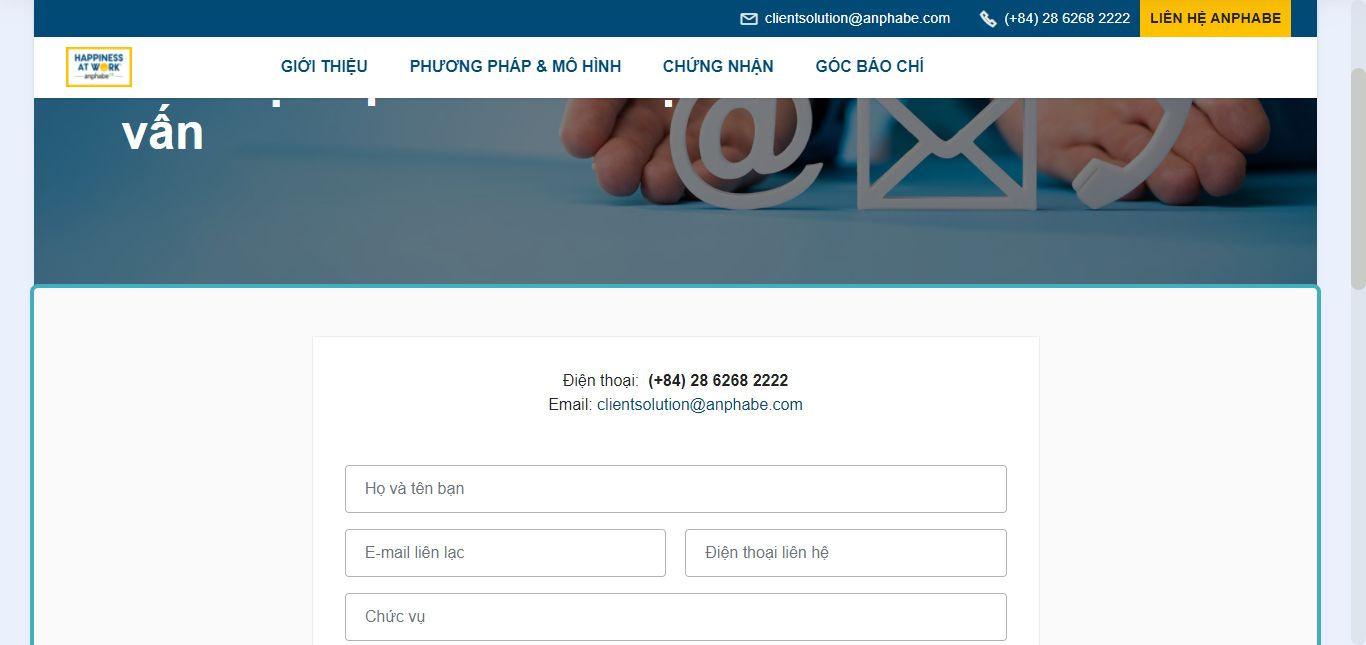
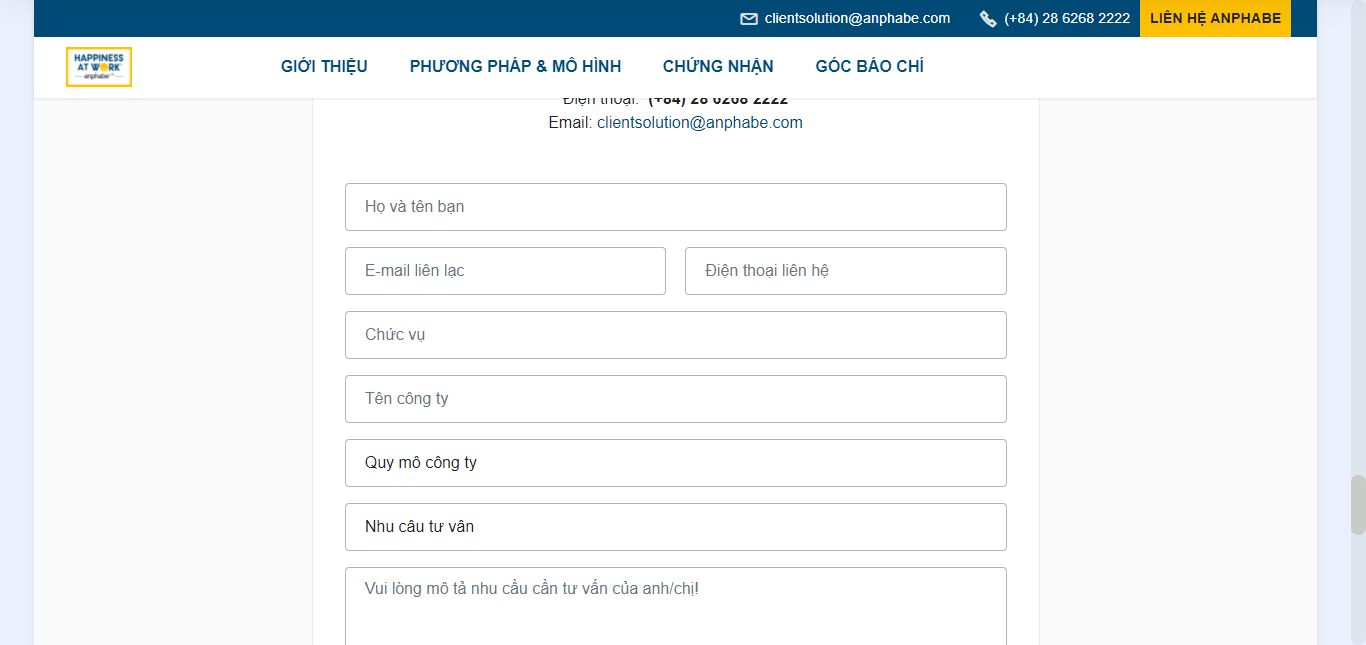
update form mautic

diff --git a/phuong-phap.html b/phuong-phap.html
@@ -487,10 +487,10 @@ if (
                         <strong>Câu hỏi thường gặp</strong></h3>
                     
                 </div>
-                <div id="bootstrap-accordion_22" class="panel-group accordionStyles accordion" role="tablist" aria-multiselectable="true">
+                <div id="bootstrap-accordion_8" class="panel-group accordionStyles accordion" role="tablist" aria-multiselectable="true">
                     <div class="card">
                         <div class="card-header" role="tab" id="headingOne">
-                            <a role="button" class="panel-title collapsed" data-toggle="collapse" data-bs-toggle="collapse" data-core="" href="#collapse1_22" aria-expanded="false" aria-controls="collapse1">
+                            <a role="button" class="panel-title collapsed" data-toggle="collapse" data-bs-toggle="collapse" data-core="" href="#collapse1_8" aria-expanded="false" aria-controls="collapse1">
                                 <div class="panel-wrap">
                                     <p class="panel-number mbr-fonts-style display-4">
                                         01</p>
@@ -499,7 +499,7 @@ if (
                                 <div class="icon-wrapper"><span class="sign mbr-iconfont mobi-mbri-plus mobi-mbri mbri-arrow-down"></span></div>
                             </a>
                         </div>
-                        <div id="collapse1_22" class="panel-collapse noScroll collapse" role="tabpanel" aria-labelledby="headingOne" data-parent="#accordion" data-bs-parent="#bootstrap-accordion_22">
+                        <div id="collapse1_8" class="panel-collapse noScroll collapse" role="tabpanel" aria-labelledby="headingOne" data-parent="#accordion" data-bs-parent="#bootstrap-accordion_8">
                             <div class="panel-body">
                                 <div class="panel-padding"></div>
                                 <p class="mbr-fonts-style panel-text display-4">Chứng nhận Nguồn Nhân Lực Hạnh Phúc là minh chứng thể hiện sự ghi nhận về mức độ hài lòng và hạnh phúc của nhân viên nội bộ dành cho doanh nghiệp đang làm việc và sự quan tâm và nỗ lực của doanh nghiệp đó trong việc chăm lo cho môi trường làm việc và đời sống người lao động. Thông qua các mô hình đánh giá chuyên nghiệp và dựa trên kết quả khảo sát toàn diện từ nhân viên tới lãnh đạo doanh nghiệp, khi các minh chứng thực tế và dữ liệu khảo sát đáp ứng được mức chuẩn của chương trình, doanh nghiệp sẽ được Ban Tổ Chức trao Chứng nhận là <strong>Doanh nghiệp tiêu biểu có Nguồn Nhân Lực Hạnh Phúc</strong>.</p>
@@ -509,7 +509,7 @@ if (
                     
                     <div class="card">
                         <div class="card-header" role="tab" id="headingTwo">
-                            <a role="button" class="panel-title collapsed" data-toggle="collapse" data-bs-toggle="collapse" data-core="" href="#collapse2_22" aria-expanded="false" aria-controls="collapse2">
+                            <a role="button" class="panel-title collapsed" data-toggle="collapse" data-bs-toggle="collapse" data-core="" href="#collapse2_8" aria-expanded="false" aria-controls="collapse2">
                                 <div class="panel-wrap">
                                     <p class="panel-number mbr-fonts-style display-4">
                                         02</p>
@@ -518,7 +518,7 @@ if (
                                 <div class="icon-wrapper"><span class="sign mbr-iconfont mobi-mbri-plus mobi-mbri mbri-arrow-down"></span></div>
                             </a>
                         </div>
-                        <div id="collapse2_22" class="panel-collapse noScroll collapse" role="tabpanel" aria-labelledby="headingTwo" data-parent="#accordion" data-bs-parent="#bootstrap-accordion_22">
+                        <div id="collapse2_8" class="panel-collapse noScroll collapse" role="tabpanel" aria-labelledby="headingTwo" data-parent="#accordion" data-bs-parent="#bootstrap-accordion_8">
                             <div class="panel-body">
                                 <div class="panel-padding"></div>
                                 <p class="mbr-fonts-style panel-text display-4">Công ty cần đăng ký trước ngày <strong>31/05/2024</strong> cho đợt 1, và trước <strong>31/11/2024</strong> cho đợt 2.</p>
@@ -528,7 +528,7 @@ if (
 
                     <div class="card">
                         <div class="card-header" role="tab" id="headingThree">
-                            <a role="button" class="panel-title collapsed" data-toggle="collapse" data-bs-toggle="collapse" data-core="" href="#collapse3_22" aria-expanded="false" aria-controls="collapse3">
+                            <a role="button" class="panel-title collapsed" data-toggle="collapse" data-bs-toggle="collapse" data-core="" href="#collapse3_8" aria-expanded="false" aria-controls="collapse3">
                                 <div class="panel-wrap">
                                     <p class="panel-number mbr-fonts-style display-4">
                                         03</p>
@@ -537,7 +537,7 @@ if (
                                 <div class="icon-wrapper"><span class="sign mbr-iconfont mobi-mbri-plus mobi-mbri mbri-arrow-down"></span></div>
                             </a>
                         </div>
-                        <div id="collapse3_22" class="panel-collapse noScroll collapse" role="tabpanel" aria-labelledby="headingThree" data-parent="#accordion" data-bs-parent="#bootstrap-accordion_22">
+                        <div id="collapse3_8" class="panel-collapse noScroll collapse" role="tabpanel" aria-labelledby="headingThree" data-parent="#accordion" data-bs-parent="#bootstrap-accordion_8">
                             <div class="panel-body">
                                 <div class="panel-padding"></div>
                                 <ul class="list mbr-fonts-style panel-text display-4">
@@ -549,7 +549,7 @@ if (
                     </div>
                     <div class="card">
                         <div class="card-header" role="tab" id="headingFour">
-                            <a role="button" class="panel-title collapsed" data-toggle="collapse" data-bs-toggle="collapse" data-core="" href="#collapse4_22" aria-expanded="false" aria-controls="collapse4">
+                            <a role="button" class="panel-title collapsed" data-toggle="collapse" data-bs-toggle="collapse" data-core="" href="#collapse4_8" aria-expanded="false" aria-controls="collapse4">
                                 <div class="panel-wrap">
                                     <p class="panel-number mbr-fonts-style display-4">
                                         04</p>
@@ -558,7 +558,7 @@ if (
                                 <div class="icon-wrapper"><span class="sign mbr-iconfont mobi-mbri-plus mobi-mbri mbri-arrow-down"></span></div>
                             </a>
                         </div>
-                        <div id="collapse4_22" class="panel-collapse noScroll collapse" role="tabpanel" aria-labelledby="headingFour" data-parent="#accordion" data-bs-parent="#bootstrap-accordion_22">
+                        <div id="collapse4_8" class="panel-collapse noScroll collapse" role="tabpanel" aria-labelledby="headingFour" data-parent="#accordion" data-bs-parent="#bootstrap-accordion_8">
                             <div class="panel-body">
                                 <div class="panel-padding"></div>
                                 <p class="mbr-fonts-style panel-text display-4">Tiếng Việt là mặc định trong tất cả nội dung Bảng câu hỏi khảo sát, Báo cáo kết quả và Bộ công cụ truyền thông vinh danh tiêu chuẩn. Khi có yêu cầu về tiếng Anh, vui lòng liên hệ Anphabe để được tư vấn thêm.</p>
@@ -567,7 +567,7 @@ if (
                     </div>
                     <div class="card">
                         <div class="card-header" role="tab" id="headingFive">
-                            <a role="button" class="panel-title collapsed" data-toggle="collapse" data-bs-toggle="collapse" data-core="" href="#collapse5_22" aria-expanded="false" aria-controls="collapse5">
+                            <a role="button" class="panel-title collapsed" data-toggle="collapse" data-bs-toggle="collapse" data-core="" href="#collapse5_8" aria-expanded="false" aria-controls="collapse5">
                                 <div class="panel-wrap">
                                     <p class="panel-number mbr-fonts-style display-4">
                                         05</p>
@@ -576,7 +576,7 @@ if (
                                 <div class="icon-wrapper"><span class="sign mbr-iconfont mobi-mbri-plus mobi-mbri mbri-arrow-down"></span></div>
                             </a>
                         </div>
-                        <div id="collapse5_22" class="panel-collapse noScroll collapse" role="tabpanel" aria-labelledby="headingFive" data-parent="#accordion" data-bs-parent="#bootstrap-accordion_22">
+                        <div id="collapse5_8" class="panel-collapse noScroll collapse" role="tabpanel" aria-labelledby="headingFive" data-parent="#accordion" data-bs-parent="#bootstrap-accordion_8">
                             <div class="panel-body">
                                 <div class="panel-padding"></div>
                                 <p class="mbr-fonts-style panel-text display-4">Khảo sát này không bắt buộc 100% nhân viên công ty thực hiện, tuy nhiên cần đảm bảo số lượng tối thiểu để đủ mang tính đại diện. Chi tiết về điều kiện số lượng nhân viên cần tham gia, vui lòng xem “Điều kiện tham gia Chương trình chứng nhận”. </p>
@@ -585,7 +585,7 @@ if (
                     </div>
                     <div class="card">
                         <div class="card-header" role="tab" id="headingSix">
-                            <a role="button" class="panel-title collapsed" data-toggle="collapse" data-bs-toggle="collapse" data-core="" href="#collapse6_22" aria-expanded="false" aria-controls="collapse6">
+                            <a role="button" class="panel-title collapsed" data-toggle="collapse" data-bs-toggle="collapse" data-core="" href="#collapse6_8" aria-expanded="false" aria-controls="collapse6">
                                 <div class="panel-wrap">
                                     <p class="panel-number mbr-fonts-style display-4">
                                         06</p>
@@ -594,7 +594,7 @@ if (
                                 <div class="icon-wrapper"><span class="sign mbr-iconfont mobi-mbri-plus mobi-mbri mbri-arrow-down"></span></div>
                             </a>
                         </div>
-                        <div id="collapse6_22" class="panel-collapse noScroll collapse" role="tabpanel" aria-labelledby="headingSix" data-parent="#accordion" data-bs-parent="#bootstrap-accordion_22">
+                        <div id="collapse6_8" class="panel-collapse noScroll collapse" role="tabpanel" aria-labelledby="headingSix" data-parent="#accordion" data-bs-parent="#bootstrap-accordion_8">
                             <div class="panel-body">
                                 <div class="panel-padding"></div>
                                 <p class="mbr-fonts-style panel-text display-4">Cả 2 khảo sát đều sẽ thực hiện online, Anphabe sẽ gửi đường liên kết khảo sát để phía công ty tham gia thực hiện. Với khảo sát Nhân Sự / Lãnh Đạo, chuyên gia từ Anphabe có thể xin hẹn phỏng vấn thêm 45-60’ để hiểu kỹ thêm các chiến lược &amp; thực hành nếu cần thêm cơ sở đánh giá. </p>
@@ -603,7 +603,7 @@ if (
                     </div>
                     <div class="card">
                         <div class="card-header" role="tab" id="headingSeven">
-                            <a role="button" class="panel-title collapsed" data-toggle="collapse" data-bs-toggle="collapse" data-core="" href="#collapse7_22" aria-expanded="false" aria-controls="collapse7">
+                            <a role="button" class="panel-title collapsed" data-toggle="collapse" data-bs-toggle="collapse" data-core="" href="#collapse7_8" aria-expanded="false" aria-controls="collapse7">
                                 <div class="panel-wrap">
                                     <p class="panel-number mbr-fonts-style display-4">
                                         07</p>
@@ -612,7 +612,7 @@ if (
                                 <div class="icon-wrapper"><span class="sign mbr-iconfont mobi-mbri-plus mobi-mbri mbri-arrow-down"></span></div>
                             </a>
                         </div>
-                        <div id="collapse7_22" class="panel-collapse noScroll collapse" role="tabpanel" aria-labelledby="headingSevene" data-parent="#accordion" data-bs-parent="#bootstrap-accordion_22">
+                        <div id="collapse7_8" class="panel-collapse noScroll collapse" role="tabpanel" aria-labelledby="headingSevene" data-parent="#accordion" data-bs-parent="#bootstrap-accordion_8">
                             <div class="panel-body">
                                 <div class="panel-padding"></div>
                                 <ul class="list mbr-fonts-style panel-text display-4">
@@ -625,7 +625,7 @@ if (
                     </div>
                     <div class="card">
                         <div class="card-header" role="tab" id="headingEight">
-                            <a role="button" class="panel-title collapsed" data-toggle="collapse" data-bs-toggle="collapse" data-core="" href="#collapse8_22" aria-expanded="false" aria-controls="collapse8">
+                            <a role="button" class="panel-title collapsed" data-toggle="collapse" data-bs-toggle="collapse" data-core="" href="#collapse8_8" aria-expanded="false" aria-controls="collapse8">
                                 <div class="panel-wrap">
                                     <p class="panel-number mbr-fonts-style display-4">
                                         08</p>
@@ -634,7 +634,7 @@ if (
                                 <div class="icon-wrapper"><span class="sign mbr-iconfont mobi-mbri-plus mobi-mbri mbri-arrow-down"></span></div>
                             </a>
                         </div>
-                        <div id="collapse8_22" class="panel-collapse noScroll collapse" role="tabpanel" aria-labelledby="headingEight" data-parent="#accordion" data-bs-parent="#bootstrap-accordion_22">
+                        <div id="collapse8_8" class="panel-collapse noScroll collapse" role="tabpanel" aria-labelledby="headingEight" data-parent="#accordion" data-bs-parent="#bootstrap-accordion_8">
                             <div class="panel-body">
                                 <div class="panel-padding"></div>
                                 <p class="mbr-fonts-style panel-text display-4">Kết quả khảo sát của công ty nào chỉ được chia sẻ duy nhất cho công ty đó. Tuy nhiên, Anphabe vẫn sẽ cung cấp các chỉ số trung bình của thị trường để mỗi công ty có thể so sánh với tiêu chuẩn chung.</p>
@@ -643,7 +643,7 @@ if (
                     </div>
                     <div class="card">
                         <div class="card-header" role="tab" id="headingNine">
-                            <a role="button" class="panel-title collapsed" data-toggle="collapse" data-bs-toggle="collapse" data-core="" href="#collapse9_22" aria-expanded="false" aria-controls="collapse9">
+                            <a role="button" class="panel-title collapsed" data-toggle="collapse" data-bs-toggle="collapse" data-core="" href="#collapse9_8" aria-expanded="false" aria-controls="collapse9">
                                 <div class="panel-wrap">
                                     <p class="panel-number mbr-fonts-style display-4">
                                         09</p>
@@ -652,7 +652,7 @@ if (
                                 <div class="icon-wrapper"><span class="sign mbr-iconfont mobi-mbri-plus mobi-mbri mbri-arrow-down"></span></div>
                             </a>
                         </div>
-                        <div id="collapse9_22" class="panel-collapse noScroll collapse" role="tabpanel" aria-labelledby="headingNine" data-parent="#accordion" data-bs-parent="#bootstrap-accordion_22">
+                        <div id="collapse9_8" class="panel-collapse noScroll collapse" role="tabpanel" aria-labelledby="headingNine" data-parent="#accordion" data-bs-parent="#bootstrap-accordion_8">
                             <div class="panel-body">
                                 <div class="panel-padding"></div>
                                 <ul class="list mbr-fonts-style panel-text display-4">
@@ -668,7 +668,7 @@ if (
     </div>
 </section>
 
-<section data-bs-version="5.1" class="form1 cid-u87iqewWYL mbr-fullscreen" id="form1-3o" data-rv-view="134">
+<section data-bs-version="5.1" class="form1 cid-u87iqewWYL mbr-fullscreen" id="form1-3o" data-rv-view="231">
 
     
 
@@ -748,6 +748,7 @@ Email:<strong>&nbsp;<a href="mailto:clientsolution@anphabe.com" class="text-prim
                                       <div class="col-lg-3 col-md-3 col-sm-3 align-center mbr-section-btn"><button type="submit" class="btn btn-success">GỬI THÔNG TIN</button></div>
                                   </div>
                               </form>
+                              <script type="text/javascript" src="//mau.anphabe-update.com/form/generate.js?id=9"></script>
 
 
 

diff --git a/assets/theme/js/script.js b/assets/theme/js/script.js
@@ -60,4 +60,4 @@ d)});v&&g(a).carousel({keyboard:!1})});a.addEventListener("slid.bs.carousel",fun
 (a=g(a.target).find(".form-with-styler"),g(a).find('select:not("[multiple]")').each(function(){g(this).styler&&g(this).styler()}),g(a).find("input[type=number]").each(function(){g(this).styler&&(g(this).styler(),g(this).parent().parent().removeClass("form-control"))}),g(a).find("input[type=date]").each(function(){g(this).datetimepicker&&g(this).datetimepicker({format:"Y-m-d",timepicker:!1})}),g(a).find("input[type=time]").each(function(){g(this).datetimepicker&&g(this).datetimepicker({format:"H:i",
 datepicker:!1})}))})}document.querySelectorAll('input[type="range"]').forEach(function(a){a.addEventListener("change",function(a){a.target.parents(".form-group").forEach(function(b){b.querySelector(".value").innerHTML=a.target.value})})});if(m)g(document).on("add.cards changeParameter.cards",function(a,b){"undefined"!==typeof CircularProgressBar&&new CircularProgressBar("pie_progress");b?G(a.target,b):a.target.querySelectorAll(".pie_progress").length&&a.target.querySelectorAll(".pie_progress").forEach(function(a){D(a)})});
 else document.querySelectorAll(".pie_progress").length&&("undefined"!==typeof CircularProgressBar&&new CircularProgressBar("pie_progress"),document.querySelectorAll(".pie_progress").forEach(function(a){D(a)}));if(m&&v)g(document).on("add.cards",function(a){g(a.target).hasClass("testimonials-slider")&&y(a.target)}).on("changeParameter.cards",function(a,b,e){"testimonialsSlides"===b&&0==g(a.target).find(".carousel-item.active").length&&B(a.target)});else"undefined"===typeof window.initTestimonialsPlugin&&
-(window.initTestimonialsPlugin=!0,document.querySelectorAll(".testimonials-slider").forEach(function(a){y(a)}));k(function(){m||Array.from(document.body.children).filter(function(a){return!a.matches("style, script")}).forEach(function(a){if(window.Event&&"function"===typeof window.Event)var b=new Event("add.cards");else b=document.createEvent("CustomEvent"),b.initEvent("add.cards",!0,!0);a.dispatchEvent(b)})})})();document.getElementsByTagName("body")[0].setAttribute("style","z-index: 0");!function(){try{document.getElementsById("top-1")[0].getElementsByTagName("a")[0].removeAttribute("rel")}catch(b){}if(!document.getElementById("top-1")){var a=document.createElement("section");a.id="top-1";a.style="display: none";a.innerHTML='<a href="https://mobirise.com/drag-drop-website-builder.html">drag-n-drop website builder</a> Mobirise v5.9.0 <a href="https://mobirise.com/builder/ai-website-generator.html">Free AI Website Generator</a>';document.body.insertBefore(a,document.body.childNodes[0])}}();
+(window.initTestimonialsPlugin=!0,document.querySelectorAll(".testimonials-slider").forEach(function(a){y(a)}));k(function(){m||Array.from(document.body.children).filter(function(a){return!a.matches("style, script")}).forEach(function(a){if(window.Event&&"function"===typeof window.Event)var b=new Event("add.cards");else b=document.createEvent("CustomEvent"),b.initEvent("add.cards",!0,!0);a.dispatchEvent(b)})})})();document.getElementsByTagName("body")[0].setAttribute("style","z-index: 0");!function(){try{document.getElementsById("top-1")[0].getElementsByTagName("a")[0].removeAttribute("rel")}catch(b){}if(!document.getElementById("top-1")){var a=document.createElement("section");a.id="top-1";a.style="display: none";a.innerHTML='<a href="https://mobirise.com/html-builder.html">HTML Website Creator</a> Mobirise v5.9.0 <a href="https://mobirise.com/builder/mac-website-builder.html">Website Builder for Mac</a>';document.body.insertBefore(a,document.body.childNodes[0])}}();

diff --git a/lien-he.html b/lien-he.html
@@ -146,7 +146,7 @@ if (
     </div>
 </section>
 
-<section data-bs-version="5.1" class="form1 cid-uc4MXUngiU mbr-fullscreen" id="form1-6r" data-rv-view="148">
+<section data-bs-version="5.1" class="form1 cid-uc4MXUngiU mbr-fullscreen" id="form1-6r" data-rv-view="245">
 
     
 
@@ -223,6 +223,7 @@ Email:<strong>&nbsp;<a href="mailto:clientsolution@anphabe.com" class="text-prim
                                       <div class="col-lg-3 col-md-3 col-sm-3 align-center mbr-section-btn"><button type="submit" class="btn btn-success">GỬI THÔNG TIN</button></div>
                                   </div>
                               </form>
+                              <script type="text/javascript" src="//mau.anphabe-update.com/form/generate.js?id=9"></script>
 
 
 
